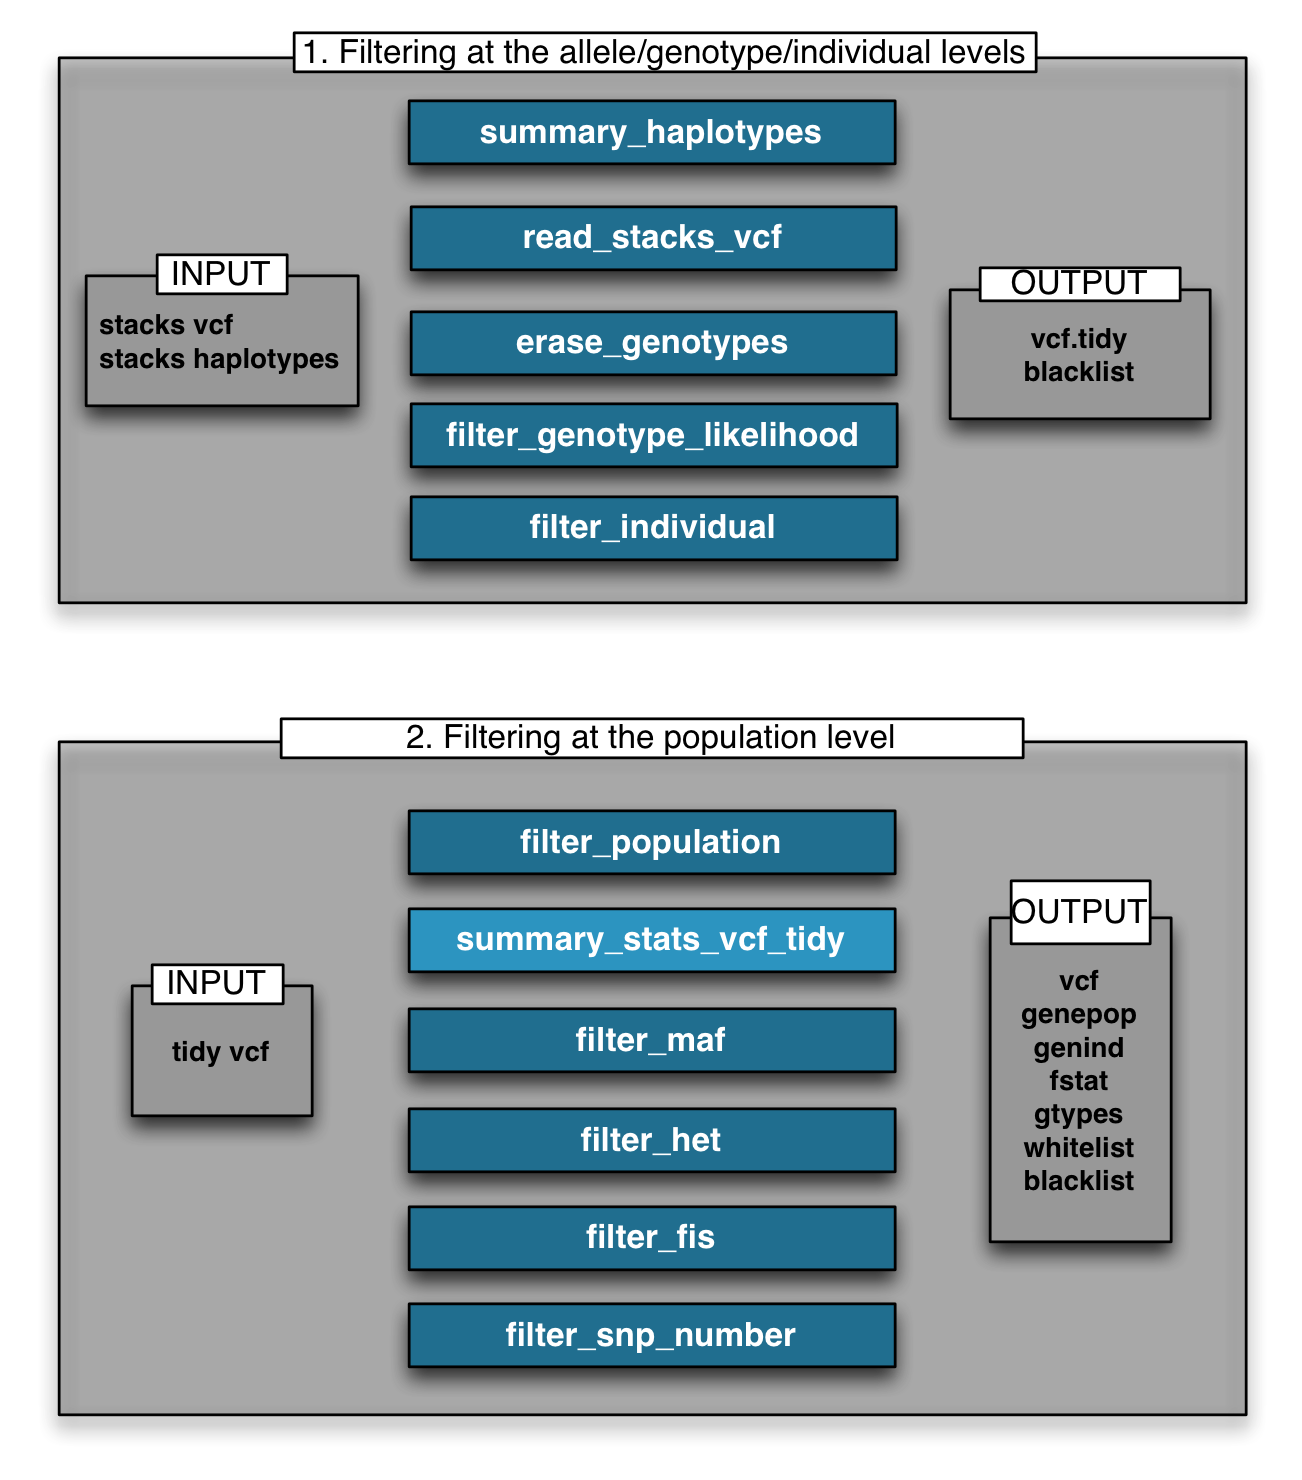
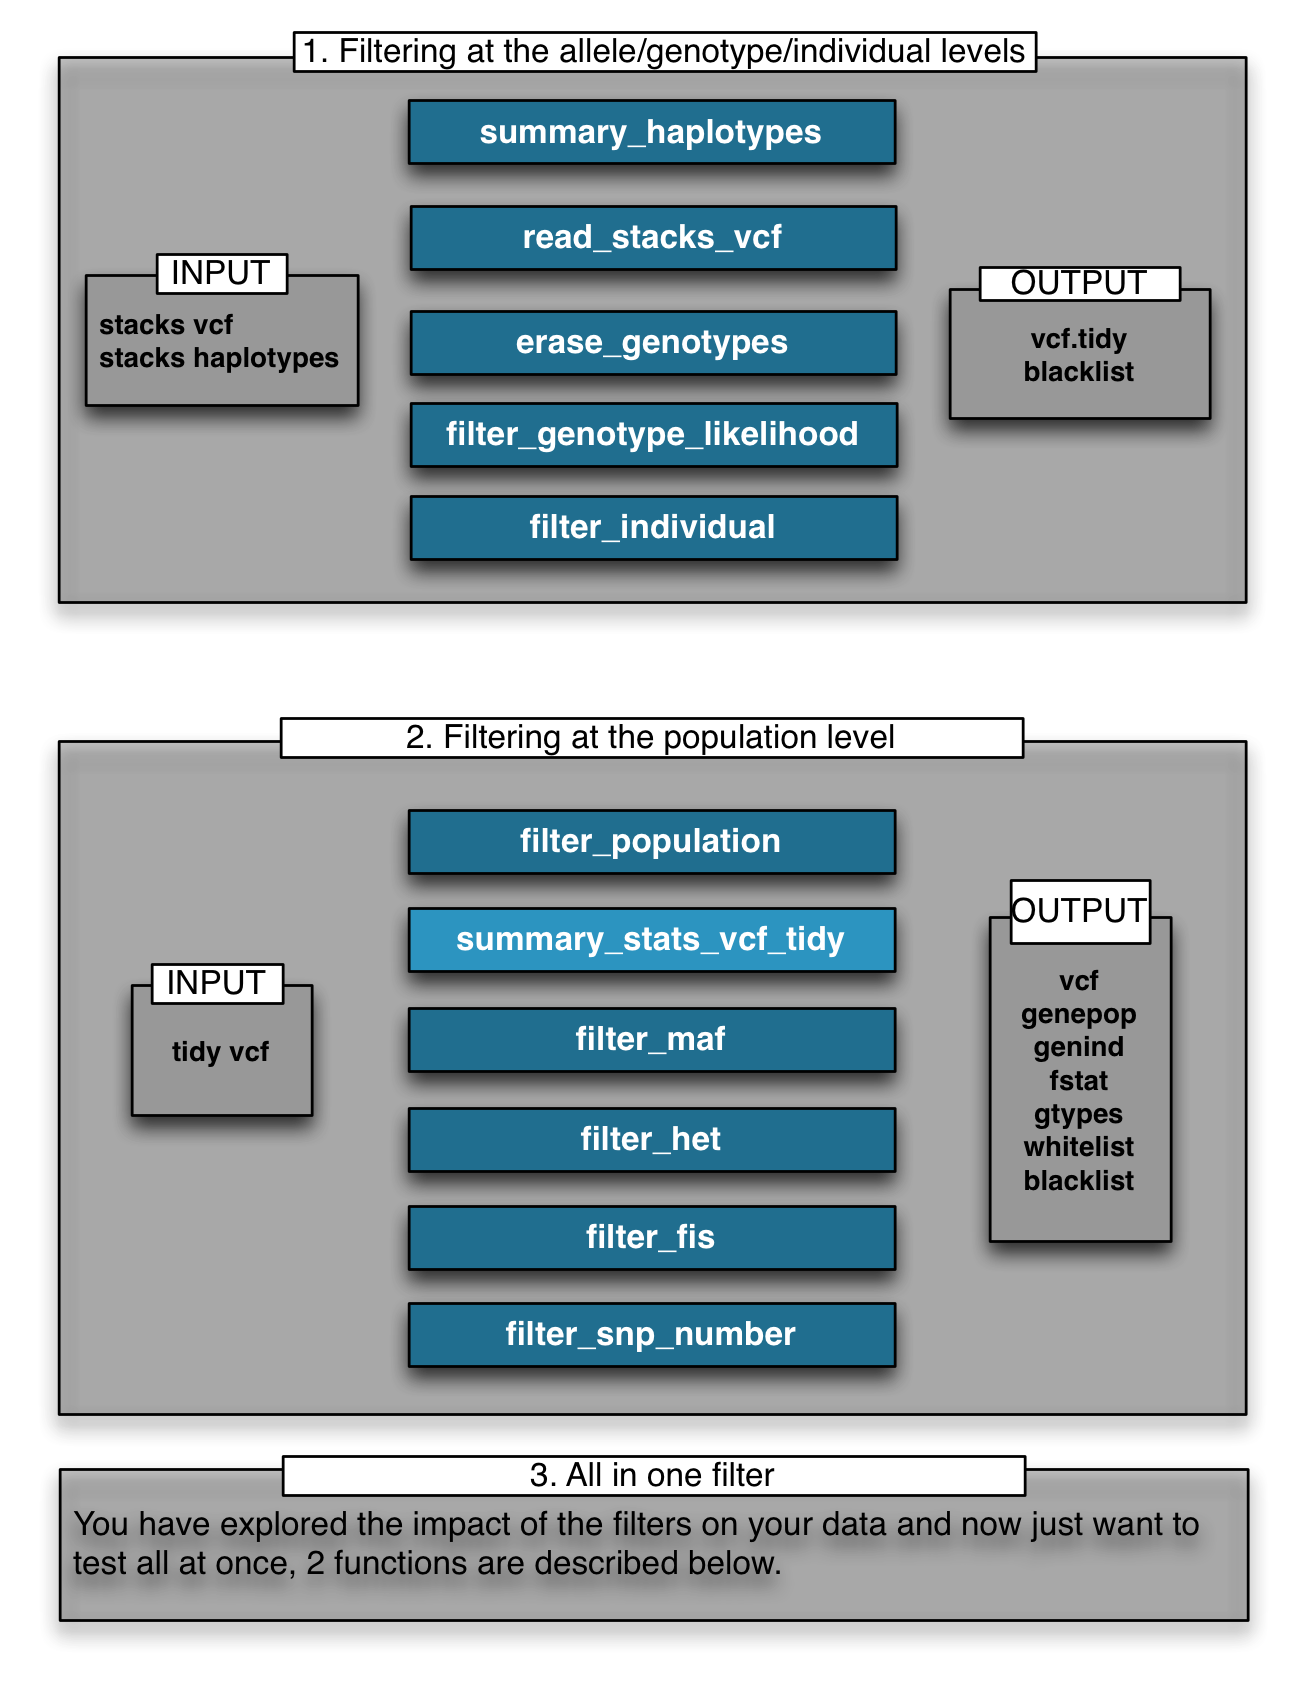
edits

diff --git a/README.md b/README.md
@@ -143,7 +143,9 @@ install.packages("randomForestSRC", type = "source")
 
 ## GBS workflow
 The **stackr** package fits currently at the end of the GBS workflow. Below, a flow chart using [STACKS] (http://creskolab.uoregon.edu/stacks/) and other software. You can use the [STACKS] (http://creskolab.uoregon.edu/stacks/) workflow [used in the Bernatchez lab] (https://github.com/enormandeau/stacks_workflow). ![](vignettes/GBS_workflow.png)
-An example of the workflow ![](vignettes/stackr_workflow.png)
+## stackr workflow 
+Look at step 1 as a quality insurance step. We need to modify the data to play with it efficiently in R. To have reliable summary statistics, you first need good coverage of your alleles to call your genotypes, good genotype likelihood, enough individuals in each sampling sites and enough putative populations with your markers... Step 2 is where the actual work is done to remove artifactual and uninformative markers based on summary statistics of your markers.
+![](vignettes/stackr_workflow.png)
 
 ## Example 
 
